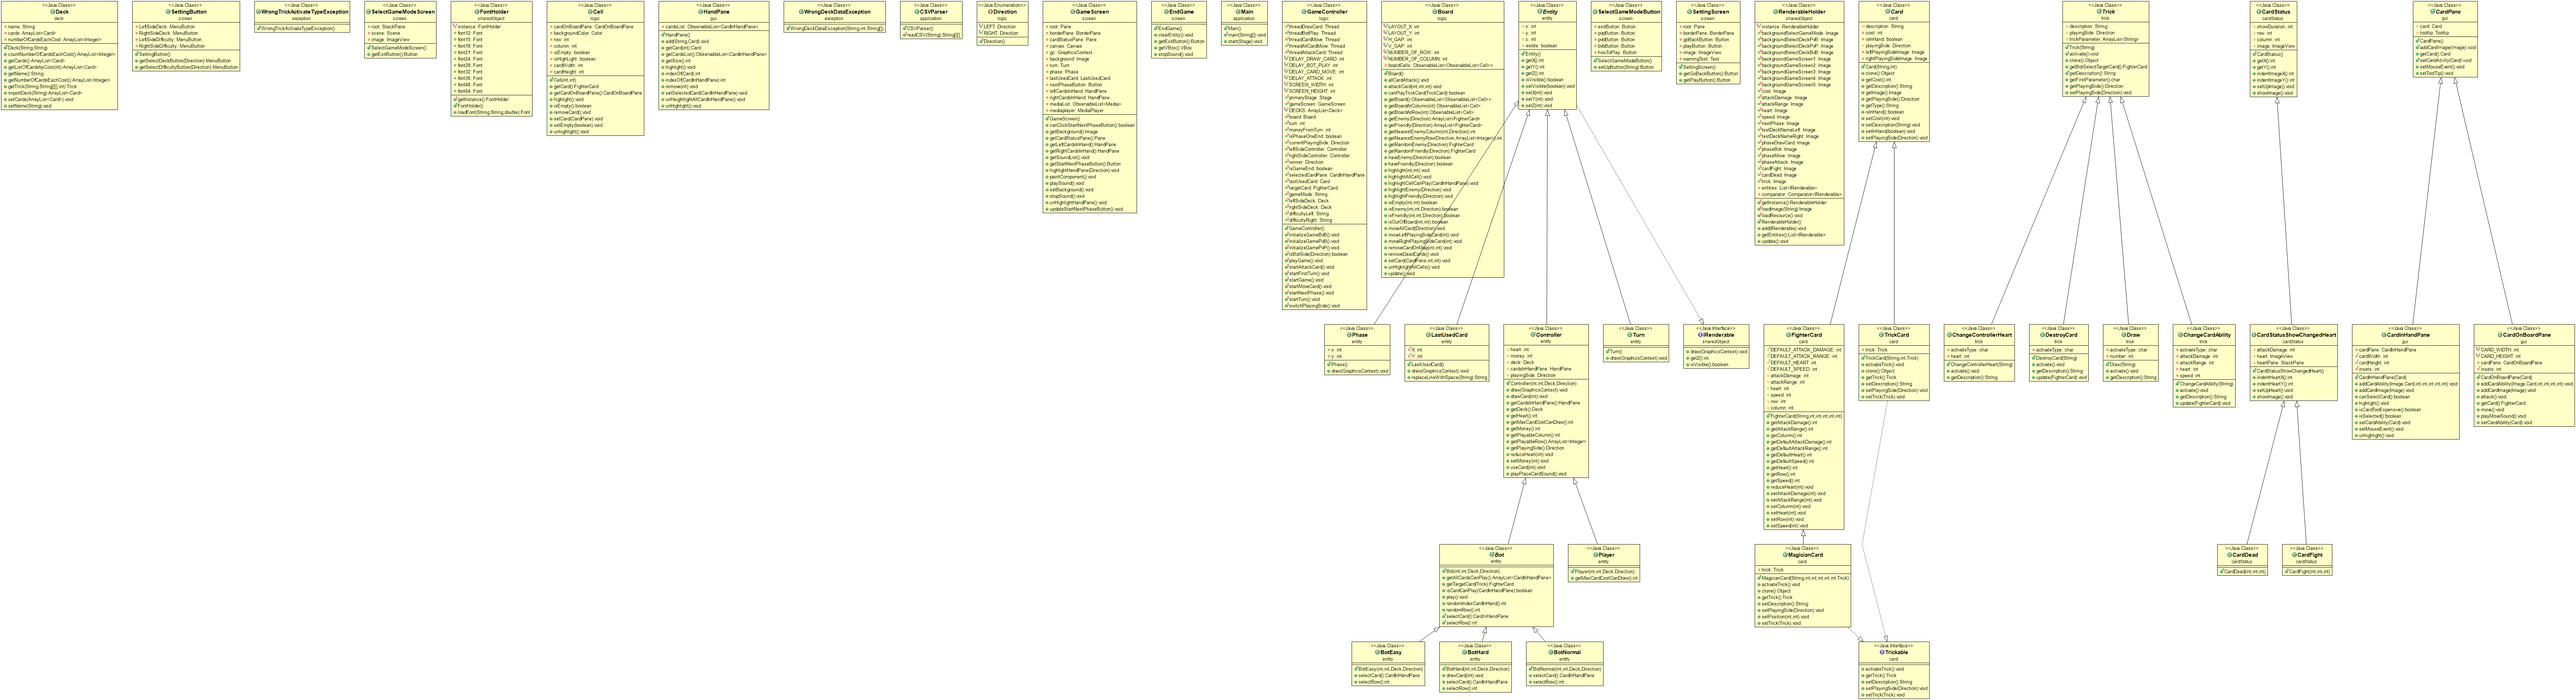
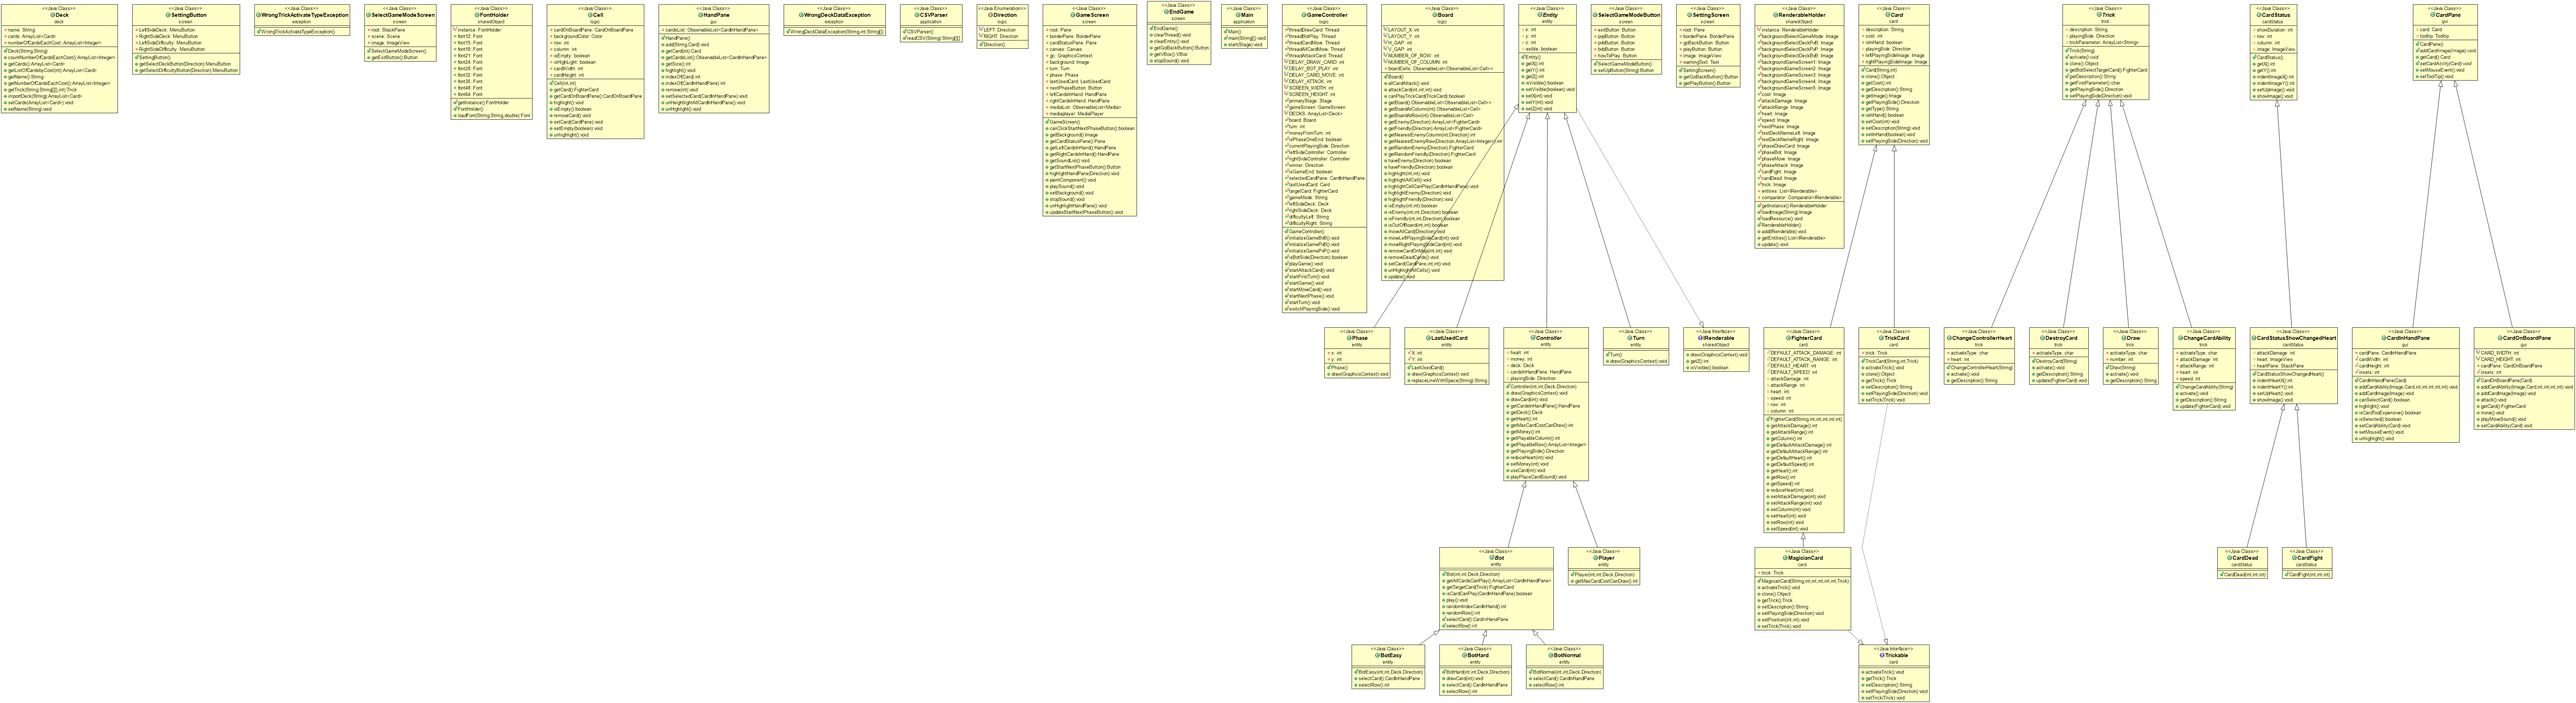
Update EndGame

diff --git a/src/screen/EndGame.java b/src/screen/EndGame.java
@@ -32,6 +32,7 @@ public class EndGame extends StackPane {
 	public EndGame() {
 		GameController.isGameEnd = true;
 		clearEntity();
+		clearThread();
 		stopSound();
 		this.setAlignment(Pos.CENTER);
 
@@ -43,6 +44,14 @@ public class EndGame extends StackPane {
 		Scene scene = new Scene(this);
 		GameController.primaryStage.setScene(scene);
 	}
+	
+	public void clearThread() {
+		GameController.threadAllCardMove = null;
+		GameController.threadAttackCard = null;
+		GameController.threadBotPlay = null;
+		GameController.threadCardMove = null;
+		GameController.threadDrawCard = null;
+	}
 
 	public void clearEntity() {
 		for (IRenderable e : RenderableHolder.getInstance().getEntities()) {
@@ -50,8 +59,8 @@ public class EndGame extends StackPane {
 		}
 	}
 
-	public Button getExitButton() {
-		Button goBackButton = new Button("Exit Game");
+	public Button getGoBackButton() {
+		Button goBackButton = new Button("New Game");
 		goBackButton.setLayoutY(600);
 		goBackButton.setPrefSize(300, 100);
 		goBackButton
@@ -62,8 +71,7 @@ public class EndGame extends StackPane {
 				new BorderStroke(Color.NAVY, BorderStrokeStyle.SOLID, new CornerRadii(5), new BorderWidths(5))));
 		StackPane.setMargin(goBackButton, new Insets(20));
 		goBackButton.setOnMouseClicked((MouseEvent e) -> {
-			SoundHolder.getInstance().click.play();
-			Platform.exit();
+			new SelectGameModeScreen();
 		});
 		goBackButton.setOnMouseEntered((MouseEvent e) -> {
 			goBackButton.setBackground(
@@ -90,7 +98,7 @@ public class EndGame extends StackPane {
 		dropShadow.setSpread(1);
 		text.setEffect(dropShadow);
 		text.setFont(FontHolder.getInstance().font48);
-		vBox.getChildren().addAll(text, getExitButton());
+		vBox.getChildren().addAll(text, getGoBackButton());
 		return vBox;
 	}
 

diff --git a/src/gui/CardOnBoardPane.java b/src/gui/CardOnBoardPane.java
@@ -103,19 +103,16 @@ public class CardOnBoardPane extends CardPane {
 		FighterCard card = (FighterCard) this.card;
 		Thread thread = new Thread(() -> {
 			try {
-				if (GameController.isGameEnd) { // stop running if game end
-					return;
-				}
 				switch (card.getPlayingSide()) {
 				case LEFT:
 					for (int i = 0; i < card.getSpeed(); i++) {
+						if (GameController.isGameEnd) { // stop running if game end
+							return;
+						}
 						if (GameController.board.isEmpty(card.getRow(), card.getColumn() + 1)) {
 							Platform.runLater(new Runnable() {
 								public void run() {
 									// can move to next cell
-									if (GameController.isGameEnd) { // stop running if game end
-										return;
-									}
 									playMoveSound();
 									GameController.board.removeCardOnMap(card.getRow(), card.getColumn());
 									card.setColumn(card.getColumn() + 1);
@@ -137,12 +134,12 @@ public class CardOnBoardPane extends CardPane {
 					break;
 				case RIGHT:
 					for (int i = 0; i < card.getSpeed(); i++) {
+						if (GameController.isGameEnd) { // stop running if game end
+							return;
+						}
 						if (GameController.board.isEmpty(card.getRow(), card.getColumn() - 1)) {
 							Platform.runLater(new Runnable() {
 								public void run() {
-									if (GameController.isGameEnd) { // stop running if game end
-										return;
-									}
 									playMoveSound();
 									GameController.board.removeCardOnMap(card.getRow(), card.getColumn());
 									card.setColumn(card.getColumn() - 1);

diff --git a/src/logic/Board.java b/src/logic/Board.java
@@ -352,6 +352,9 @@ public class Board extends GridPane {
 			if (!isEmpty(r, c)) {
 				if (boardCells.get(r).get(c).getCardOnBoardPane().getCard().getPlayingSide() == Direction.LEFT) {
 					boardCells.get(r).get(c).getCardOnBoardPane().move();
+					if (GameController.isGameEnd) { // stop running if game end
+						return;
+					}
 					GameController.threadCardMove.join(); // wait for a card finish move to move next card
 					Thread.sleep(1);
 				}
@@ -364,6 +367,9 @@ public class Board extends GridPane {
 			if (!isEmpty(r, c)) {
 				if (boardCells.get(r).get(c).getCardOnBoardPane().getCard().getPlayingSide() == Direction.RIGHT) {
 					boardCells.get(r).get(c).getCardOnBoardPane().move();
+					if (GameController.isGameEnd) { // stop running if game end
+						return;
+					}
 					GameController.threadCardMove.join();
 					Thread.sleep(1);
 				}

diff --git a/src/entity/Controller.java b/src/entity/Controller.java
@@ -72,6 +72,9 @@ public abstract class Controller extends Entity {
 					}
 					Platform.runLater(new Runnable() {
 						public void run() {
+							if (GameController.isGameEnd) { // stop running if game end
+								return;
+							}
 							// random pick 1 card from deck
 							Random rand = new Random();
 							// .nextInt(int) will random value from 0 to int-1

diff --git a/src/logic/GameController.java b/src/logic/GameController.java
@@ -255,6 +255,9 @@ public class GameController {
 			}
 		});
 		thread.start();
+		if (isGameEnd) { // stop running if game end
+			return;
+		}
 		leftSideController.drawCard(2);
 		rightSideController.drawCard(2);
 	}
